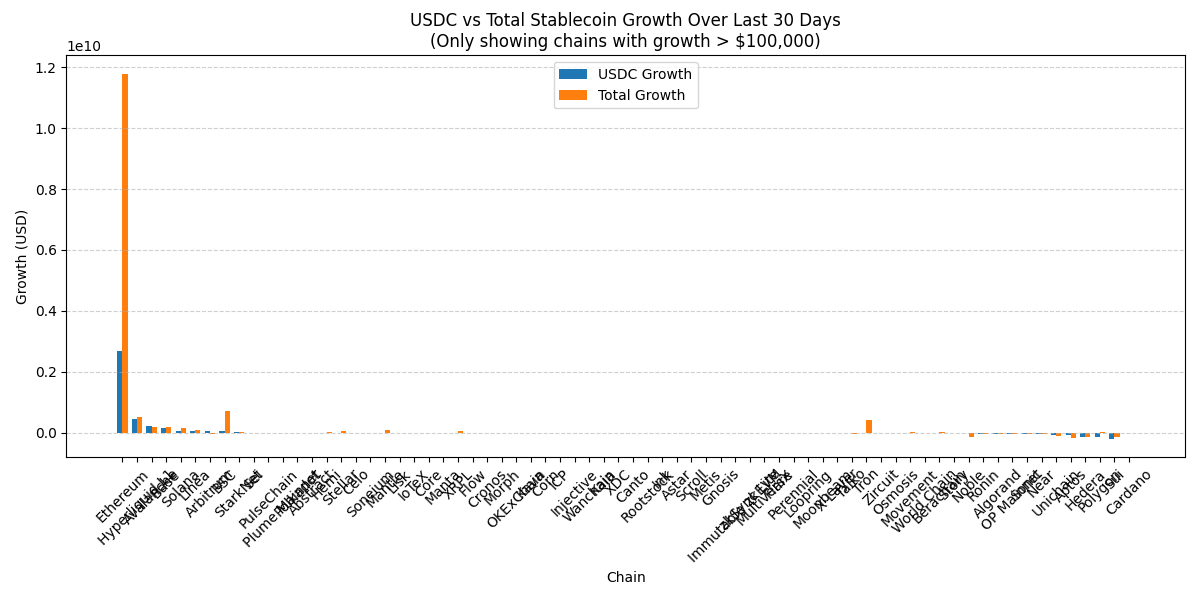
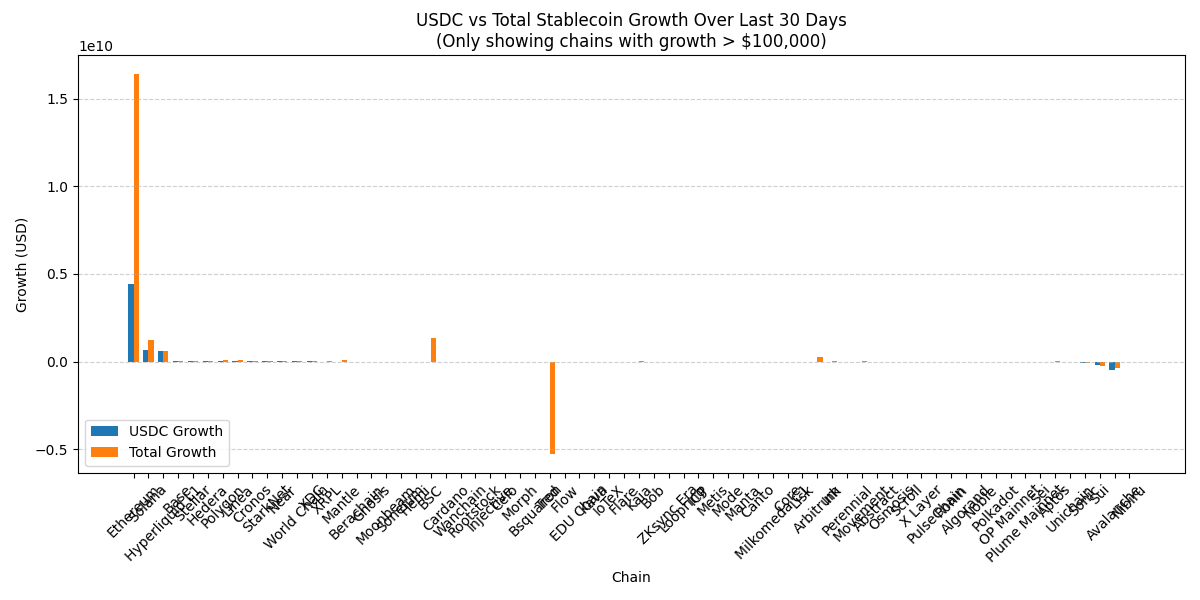
updating for plasma

diff --git a/src/september_2024_tvl_analysis.py b/src/september_2024_tvl_analysis.py
@@ -1,0 +1,345 @@
+#!/usr/bin/env python3
+"""
+September 1, 2024 TVL Analysis
+Fetches DeFi TVL and stablecoin TVL data as of September 1, 2024 for all chains,
+calculates 30d and 90d growth rates as of that date, and compares with current TVL.
+"""
+
+from defillama import DefiLlama
+import pandas as pd
+import json
+import requests
+from datetime import datetime, timedelta
+import time
+import urllib3
+import os
+
+urllib3.disable_warnings()
+
+class September2024TVLAnalysis:
+    def __init__(self):
+        """Initialize the analysis with API clients"""
+        # Target date: September 1, 2024
+        self.target_date = datetime(2024, 9, 1)
+        self.target_timestamp = int(self.target_date.timestamp())
+        
+        # Initialize API client
+        self.llama = DefiLlama()
+        self.llama.session.verify = False
+        
+        # Create requests session
+        self.session = requests.Session()
+        self.session.verify = False
+        
+        print(f"🎯 Target analysis date: {self.target_date.strftime('%Y-%m-%d')}")
+        print(f"📊 Target timestamp: {self.target_timestamp}")
+    
+    def fetch_chains_data(self):
+        """Fetch all chains data from DeFiLlama"""
+        print("\n🔄 Fetching chains data...")
+        
+        chains_url = "https://api.llama.fi/v2/chains"
+        response = self.session.get(chains_url)
+        time.sleep(0.5)
+        
+        if response.status_code != 200:
+            raise Exception(f"Failed to fetch chains data: {response.status_code}")
+        
+        chains_data = response.json()
+        print(f"✅ Found {len(chains_data)} chains")
+        
+        return chains_data
+    
+    def get_historical_tvl_for_date(self, chain_name, target_date):
+        """Get historical TVL for a specific chain and date"""
+        try:
+            historical_url = f"https://api.llama.fi/v2/historicalChainTvl/{chain_name}"
+            headers = {'User-Agent': 'curl/7.64.1'}
+            response = self.session.get(historical_url, headers=headers)
+            time.sleep(0.5)  # Rate limiting
+            
+            if response.status_code != 200:
+                print(f"❌ Failed to fetch historical data for {chain_name}: {response.status_code}")
+                return None
+            
+            hist_data = response.json()
+            if not hist_data or not isinstance(hist_data, list):
+                print(f"❌ Invalid data format for {chain_name}")
+                return None
+            
+            # Convert to list of (datetime, tvl) tuples
+            tvl_history = []
+            for entry in hist_data:
+                try:
+                    date = datetime.fromtimestamp(entry['date'])
+                    tvl = entry['tvl']
+                    tvl_history.append((date, tvl))
+                except (KeyError, ValueError) as e:
+                    continue
+            
+            if not tvl_history:
+                print(f"❌ No valid TVL history for {chain_name}")
+                return None
+            
+            # Sort by date
+            tvl_history.sort(key=lambda x: x[0])
+            
+            # Find closest date to target
+            target_timestamp = target_date.timestamp()
+            closest_entry = min(tvl_history, key=lambda x: abs(x[0].timestamp() - target_timestamp))
+            
+            return {
+                'date': closest_entry[0],
+                'tvl': closest_entry[1],
+                'full_history': tvl_history
+            }
+            
+        except Exception as e:
+            print(f"❌ Error fetching historical TVL for {chain_name}: {str(e)}")
+            return None
+    
+    def calculate_growth_rates(self, tvl_history, target_date):
+        """Calculate 30d and 90d growth rates as of the target date"""
+        if not tvl_history:
+            return None, None
+        
+        # Find TVL on target date
+        target_timestamp = target_date.timestamp()
+        target_entry = min(tvl_history, key=lambda x: abs(x[0].timestamp() - target_timestamp))
+        target_tvl = target_entry[1]
+        
+        # Calculate dates for comparison
+        thirty_days_before = target_date - timedelta(days=30)
+        ninety_days_before = target_date - timedelta(days=90)
+        
+        # Find closest entries for comparison dates
+        thirty_days_entry = min(tvl_history, key=lambda x: abs(x[0].timestamp() - thirty_days_before.timestamp()))
+        ninety_days_entry = min(tvl_history, key=lambda x: abs(x[0].timestamp() - ninety_days_before.timestamp()))
+        
+        # Calculate growth rates
+        growth_30d = None
+        growth_90d = None
+        
+        if thirty_days_entry[1] > 0:
+            growth_30d = (target_tvl - thirty_days_entry[1]) / thirty_days_entry[1]
+        
+        if ninety_days_entry[1] > 0:
+            growth_90d = (target_tvl - ninety_days_entry[1]) / ninety_days_entry[1]
+        
+        return growth_30d, growth_90d
+    
+    def fetch_stablecoin_data_for_date(self, target_date):
+        """Fetch stablecoin data for the target date"""
+        print(f"\n🪙 Fetching stablecoin data for {target_date.strftime('%Y-%m-%d')}...")
+        
+        # Get list of stablecoins
+        response = self.llama.get_stablecoins(include_prices=True)
+        time.sleep(0.5)
+        
+        if not response or 'peggedAssets' not in response:
+            print("❌ Failed to fetch stablecoins list")
+            return {}
+        
+        stablecoins_df = pd.DataFrame(response['peggedAssets'])
+        
+        # Function to extract circulating supply
+        def extract_circulating(value):
+            try:
+                if isinstance(value, str):
+                    value = eval(value)
+                return value.get('peggedUSD', 0)
+            except:
+                return 0
+        
+        stablecoins_df['circulating_supply'] = stablecoins_df['circulating'].apply(extract_circulating)
+        
+        # Get top stablecoins by circulating supply
+        top_stablecoins = stablecoins_df.sort_values('circulating_supply', ascending=False).head(50)
+        
+        # Dictionary to store stablecoin TVL by chain
+        chain_stablecoin_tvl = {}
+        
+        print(f"📊 Processing top {len(top_stablecoins)} stablecoins...")
+        
+        for idx, stablecoin in top_stablecoins.iterrows():
+            stablecoin_id = stablecoin['id']
+            stablecoin_name = stablecoin['name']
+            
+            print(f"  Processing: {stablecoin_name} (ID: {stablecoin_id})")
+            
+            try:
+                # Get historical chain distribution
+                response = self.llama.get_stablecoins_historical_mcap_n_chain_distribution(stablecoin_id=stablecoin_id)
+                time.sleep(0.5)
+                
+                if not response or 'chainBalances' not in response:
+                    print(f"    ❌ No chain balances data for {stablecoin_name}")
+                    continue
+                
+                # Process chain balances
+                for chain, daily_data in response['chainBalances'].items():
+                    if 'tokens' not in daily_data:
+                        continue
+                    
+                    # Find data closest to target date
+                    target_timestamp = target_date.timestamp()
+                    closest_data = None
+                    min_diff = float('inf')
+                    
+                    for data_point in daily_data['tokens']:
+                        try:
+                            point_timestamp = data_point['date']
+                            diff = abs(point_timestamp - target_timestamp)
+                            if diff < min_diff:
+                                min_diff = diff
+                                closest_data = data_point
+                        except (KeyError, TypeError):
+                            continue
+                    
+                    if closest_data:
+                        try:
+                            circulating = closest_data.get('circulating', {}).get('peggedUSD', 0)
+                            if circulating > 0:
+                                if chain not in chain_stablecoin_tvl:
+                                    chain_stablecoin_tvl[chain] = 0
+                                chain_stablecoin_tvl[chain] += circulating
+                        except (TypeError, AttributeError):
+                            continue
+                            
+            except Exception as e:
+                print(f"    ❌ Error processing {stablecoin_name}: {str(e)}")
+                continue
+        
+        print(f"✅ Processed stablecoin data for {len(chain_stablecoin_tvl)} chains")
+        return chain_stablecoin_tvl
+    
+    def run_analysis(self):
+        """Run the complete analysis"""
+        print("🚀 Starting September 1, 2024 TVL Analysis")
+        print("=" * 60)
+        
+        # Fetch chains data
+        chains_data = self.fetch_chains_data()
+        
+        # Process all chains (not just top ones)
+        print(f"\n📊 Processing all {len(chains_data)} chains...")
+        
+        # Fetch stablecoin data for target date
+        chain_stablecoin_tvl = self.fetch_stablecoin_data_for_date(self.target_date)
+        
+        # Process each chain
+        results = []
+        
+        for i, chain_info in enumerate(chains_data, 1):
+            chain_name = chain_info['name']
+            current_tvl = chain_info.get('tvl', 0)
+            
+            print(f"\n🔄 Processing chain {i}/{len(chains_data)}: {chain_name}")
+            print(f"   Current TVL: ${current_tvl:,.2f}")
+            
+            # Get historical TVL data
+            historical_data = self.get_historical_tvl_for_date(chain_name, self.target_date)
+            
+            if not historical_data:
+                print(f"   ❌ No historical data available for Sept 1, 2024")
+                continue
+            
+            sept_1_tvl = historical_data['tvl']
+            tvl_history = historical_data['full_history']
+            
+            print(f"   Sept 1, 2024 TVL: ${sept_1_tvl:,.2f}")
+            
+            # Get stablecoin TVL for this chain on Sept 1, 2024
+            stablecoin_tvl_sept1 = chain_stablecoin_tvl.get(chain_name, 0)
+            
+            # Skip chains with no meaningful TVL on Sept 1, 2024
+            total_sept1_tvl = sept_1_tvl + stablecoin_tvl_sept1
+            if total_sept1_tvl <= 0:
+                print(f"   ⏭  Skipping - no meaningful TVL on Sept 1, 2024")
+                continue
+            
+            # Calculate growth rates as of Sept 1, 2024
+            growth_30d, growth_90d = self.calculate_growth_rates(tvl_history, self.target_date)
+            
+            # Calculate current vs Sept 1 growth
+            current_vs_sept1_growth = None
+            if sept_1_tvl > 0:
+                current_vs_sept1_growth = (current_tvl - sept_1_tvl) / sept_1_tvl
+            
+            result = {
+                'Chain': chain_name,
+                'Sept_1_2024_DeFi_TVL': sept_1_tvl,
+                'Sept_1_2024_Stablecoin_TVL': stablecoin_tvl_sept1,
+                'Sept_1_2024_Total_TVL': total_sept1_tvl,
+                'Sept_1_2024_30d_Growth': growth_30d,
+                'Sept_1_2024_90d_Growth': growth_90d,
+                'Current_DeFi_TVL': current_tvl,
+                'Current_vs_Sept1_Growth': current_vs_sept1_growth,
+                'Stablecoin_Percentage_Sept1': (stablecoin_tvl_sept1 / total_sept1_tvl * 100) if total_sept1_tvl > 0 else 0
+            }
+            
+            results.append(result)
+            
+            print(f"   ✅ Processed successfully")
+            print(f"      30d Growth (as of Sept 1): {growth_30d*100:.2f}%" if growth_30d else "      30d Growth: N/A")
+            print(f"      90d Growth (as of Sept 1): {growth_90d*100:.2f}%" if growth_90d else "      90d Growth: N/A")
+            print(f"      Stablecoin TVL (Sept 1): ${stablecoin_tvl_sept1:,.2f}")
+            print(f"      Current vs Sept 1 Growth: {current_vs_sept1_growth*100:.2f}%" if current_vs_sept1_growth else "      Current vs Sept 1 Growth: N/A")
+        
+        # Create DataFrame and save results
+        if results:
+            df = pd.DataFrame(results)
+            
+            # Sort by total TVL on Sept 1, 2024
+            df = df.sort_values('Sept_1_2024_Total_TVL', ascending=False)
+            
+            # Format percentage columns
+            percentage_cols = ['Sept_1_2024_30d_Growth', 'Sept_1_2024_90d_Growth', 'Current_vs_Sept1_Growth']
+            for col in percentage_cols:
+                df[col] = df[col].apply(lambda x: f"{x*100:.2f}%" if pd.notna(x) else "N/A")
+            
+            # Format currency columns
+            currency_cols = ['Sept_1_2024_DeFi_TVL', 'Sept_1_2024_Stablecoin_TVL', 'Sept_1_2024_Total_TVL', 'Current_DeFi_TVL']
+            for col in currency_cols:
+                df[col] = df[col].apply(lambda x: f"${x:,.2f}" if pd.notna(x) else "$0.00")
+            
+            # Format stablecoin percentage
+            df['Stablecoin_Percentage_Sept1'] = df['Stablecoin_Percentage_Sept1'].apply(lambda x: f"{x:.2f}%" if pd.notna(x) else "0.00%")
+            
+            # Save to CSV
+            output_file = 'september_2024_tvl_analysis_all_chains.csv'
+            df.to_csv(output_file, index=False)
+            
+            print(f"\n✅ Analysis complete!")
+            print(f"📁 Results saved to: {output_file}")
+            print(f"📊 Total chains analyzed: {len(results)}")
+            
+            # Print summary statistics
+            print(f"\n📈 Summary Statistics:")
+            print(f"   Chains with data: {len(results)}")
+            print(f"   Average Sept 1 Total TVL: ${df['Sept_1_2024_Total_TVL'].str.replace('$', '').str.replace(',', '').astype(float).mean():,.2f}")
+            print(f"   Top chain by Sept 1 Total TVL: {df.iloc[0]['Chain']}")
+            
+            return df
+        else:
+            print("❌ No data collected")
+            return None
+
+def main():
+    """Main function to run the analysis"""
+    try:
+        analysis = September2024TVLAnalysis()
+        results = analysis.run_analysis()
+        
+        if results is not None:
+            print("\n🎉 Analysis completed successfully!")
+            print("📊 Check the generated CSV file for detailed results.")
+        else:
+            print("\n❌ Analysis failed - no results generated")
+            
+    except Exception as e:
+        print(f"\n💥 Analysis failed with error: {str(e)}")
+        raise
+
+if __name__ == "__main__":
+    main()

diff --git a/src/defillama_import.py b/src/defillama_import.py
@@ -140,7 +140,8 @@ if fetch_new_data:
         'Hyperliquid L1',
         'OP Mainnet',
         'Rootstock',
-        'Polygon'
+        'Polygon',
+        'Plasma'
         ]
     df.loc[(df['stablecoin_symbol'] == 'USDT') & (df['chain'].isin(usdt0_chains)), 'native_bridged_standard'] = 'USDT0'
 
@@ -171,7 +172,11 @@ if fetch_new_data:
         'Ripple',
         'XRPL',
         'Codex',
-        'Sei'
+        'Sei',
+        'XDC',
+        'Plume',
+        'Ink',
+        'Hyperliquid L1',
         ]
     df.loc[(df['stablecoin_symbol'] == 'USDC') & (df['chain'].isin(usdc_native_chains)), 'native_bridged_standard'] = 'native'
 
@@ -193,7 +198,8 @@ if fetch_new_data:
         'Tezos',  # Tezos Token via Tezos Blockchain
         'Ton',  # Ton Jetton via Ton Blockchain
         'Aptos',  # Fungible Asset via Aptos Blockchain
-        'Kaia'  # Fungible Asset via Kaia Blockchain
+        'Kaia',  # Fungible Asset via Kaia Blockchain
+        
     ]
     df.loc[(df['stablecoin_symbol'] == 'USDT') & (df['chain'].isin(usdt_native_chains)), 'native_bridged_standard'] = 'native'
 
